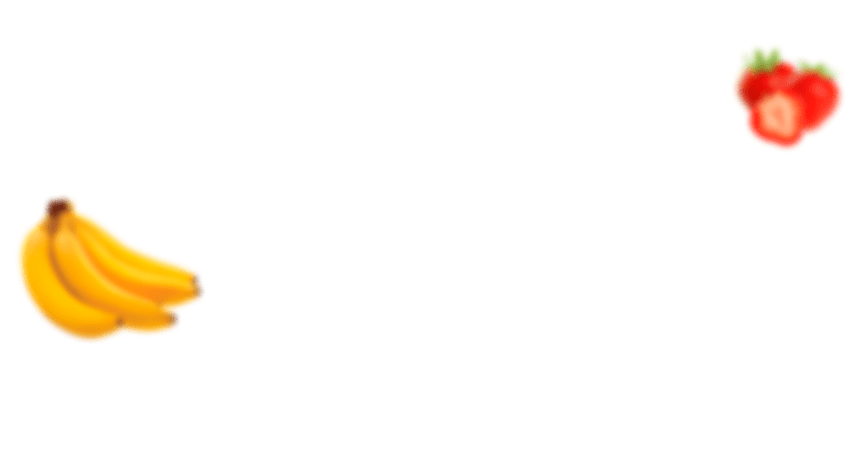
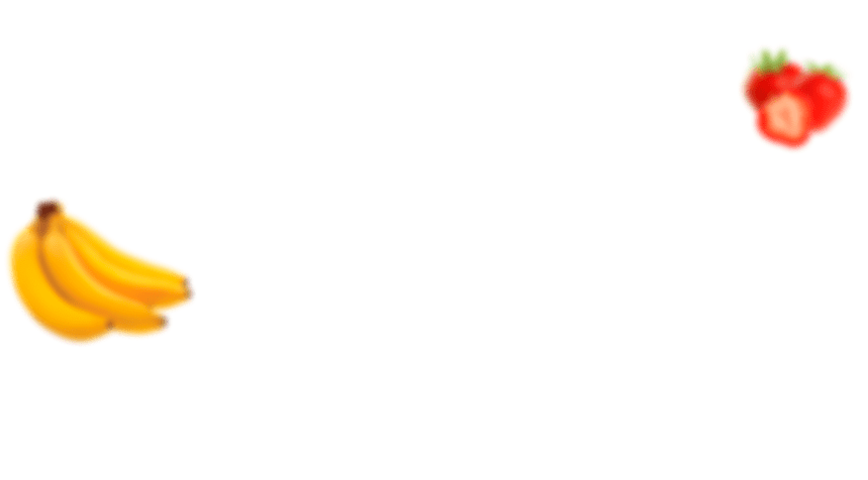
update hero

Changed region(s): [[0.0, 0.4118, 0.2419, 0.7353]]

diff --git a/src/css/hero.css b/src/css/hero.css
@@ -1,41 +1,37 @@
 /* ======================= Hero ========================== */
 /* Hero upper part */
 
-
-.hero-container {
+.hero-section {
   position: relative;
-
   background-image: url(../img/images-hero/hero-flying-fruits/flying-fruits-mobile@1x.png);
+  padding-top: 104px;
   background-repeat: no-repeat;
   background-position: 50% 0;
 }
 
-@media (min-device-pixel-ratio: 2),
-(-webkit-min-device-pixel-ratio: 2),
-(min-resolution: 192dpi),
-(min-resolution: 2dppx) {
+.hero-container {
+}
+
+/* @media (min-device-pixel-ratio: 2),
+  (-webkit-min-device-pixel-ratio: 2),
+  (min-resolution: 192dpi),
+  (min-resolution: 2dppx) {
   .hero-container {
     background-image: url(../img/images-hero/hero-flying-fruits/flying-fruits-mobile@2x.png);
   }
-}
+} */
 
 .hero-upper-part {
-  position: relative;
-
   display: flex;
   flex-direction: column;
   align-items: center;
-
-  padding-top: 116px;
   margin-bottom: 71px;
 }
 
 .hero-header {
   position: absolute;
-  top: 10%;
-
+  top: 56px;
   max-width: 355px;
-
   font-weight: 500;
   font-size: 28px;
   line-height: 1;
@@ -47,19 +43,20 @@
 }
 
 .hero-girl-container {
-  padding: 15px;
-  background-image: linear-gradient(359.94deg,
-      #ffffff -1.7%,
-      rgba(255, 255, 255, 0.441769) 30.64%,
-      rgba(255, 255, 255, 0) 76.92%);
+  padding: 12px;
+  background-image: linear-gradient(
+    359.94deg,
+    #ffffff -1.7%,
+    rgba(255, 255, 255, 0.441769) 30.64%,
+    rgba(255, 255, 255, 0) 76.92%
+  );
   border-radius: 500px;
 }
 
 .hero-girl-img {
   border-radius: 500px;
-  box-shadow: 0 0 0 14px var(--red-color);
+  box-shadow: 0 0 0 11px var(--red-color);
 }
-
 
 .hero-girl-img {
   border-radius: 500px;
@@ -68,7 +65,8 @@
 
 .hero-btn {
   position: absolute;
-  bottom: -6%;
+  top: 560px;
+  /* bottom: -6%; */
 
   display: flex;
   justify-content: center;
@@ -123,7 +121,7 @@
   display: flex;
   flex-wrap: wrap;
   justify-content: center;
-    
+
   padding-top: 28px;
   padding-bottom: 40px;
 
@@ -203,26 +201,31 @@
 }
 
 @media only screen and (min-width: 768px) {
-  .hero-container {
+  .hero-section {
     background-image: url(../img/images-hero/hero-flying-fruits/flying-fruits-tablet@1x.png);
+    padding-top: 105px;
   }
 
-  @media (min-device-pixel-ratio: 2),
-  (-webkit-min-device-pixel-ratio: 2),
-  (min-resolution: 192dpi),
-  (min-resolution: 2dppx) {
-    .hero-container {
+  .hero-container {
+  }
+
+  /* @media (min-device-pixel-ratio: 2),
+    (-webkit-min-device-pixel-ratio: 2),
+    (min-resolution: 192dpi),
+    (min-resolution: 2dppx) {
+    .hero-section {
       background-image: url(../img/images-hero/hero-flying-fruits/flying-fruits-tablet@2x.png);
     }
-  }
+    .hero-container {
+    }
+  } */
 
   .hero-upper-part {
-    padding-top: 122px;
   }
 
   .hero-header {
     max-width: 704px;
-
+    top: 64px;
     font-size: 50px;
     line-height: 1.08;
   }
@@ -231,6 +234,7 @@
     width: 114px;
     height: 114px;
     padding: 30px 15px;
+    top: 745px;
   }
 
   .hero-btn-text {
@@ -255,7 +259,7 @@
   .hero-second-card {
     margin-right: 32px;
   }
-    
+
   .hero-hashtag-list {
     justify-content: flex-end;
   }
@@ -264,26 +268,37 @@
     width: auto;
     padding: 12px 32px;
   }
+
+  .hero-girl-container {
+    padding: 17px;
+  }
+
+  .hero-girl-img {
+    box-shadow: 0 0 0 16px var(--red-color);
+  }
 }
 
 @media only screen and (min-width: 1280px) {
+  .hero-section {
+    background-image: url(../img/images-hero/hero-flying-fruits/flying-fruits-desc@1x.png);
+    padding-top: 105px;
+  }
+
   .hero-container {
-      background-image: url(../img/images-hero/hero-flying-fruits/flying-fruits-desc@1x.png);
+  }
+
+  /* @media (min-device-pixel-ratio: 2),
+    (-webkit-min-device-pixel-ratio: 2),
+    (min-resolution: 192dpi),
+    (min-resolution: 2dppx) {
+    .hero-container {
+      background-image: url(../img/images-hero/hero-flying-fruits/flying-fruits-desc@2x.png);
     }
-  
-  @media (min-device-pixel-ratio: 2),
-  (-webkit-min-device-pixel-ratio: 2),
-  (min-resolution: 192dpi),
-  (min-resolution: 2dppx) {
-      .hero-container {
-        background-image: url(../img/images-hero/hero-flying-fruits/flying-fruits-desc@2x.png);
-      }
-    }
+  } */
 
   .hero-upper-part {
-    padding-top: 122px;
   }
-    
+
   .hero-header {
     max-width: 898px;
 
@@ -293,19 +308,21 @@
 
   .hero-container-left {
     position: absolute;
-    bottom: 0;
+    top: 408px;
+    /* bottom: 0; */
     margin-left: 30px;
 
     flex-direction: column;
   }
-  
+
   .hero-text {
     max-width: 222px;
   }
 
   .hero-container-right {
     position: absolute;
-    bottom: 15%;
+    /* bottom: 15%; */
+    top: 335px;
     right: 0;
     margin-right: 30px;
   }
